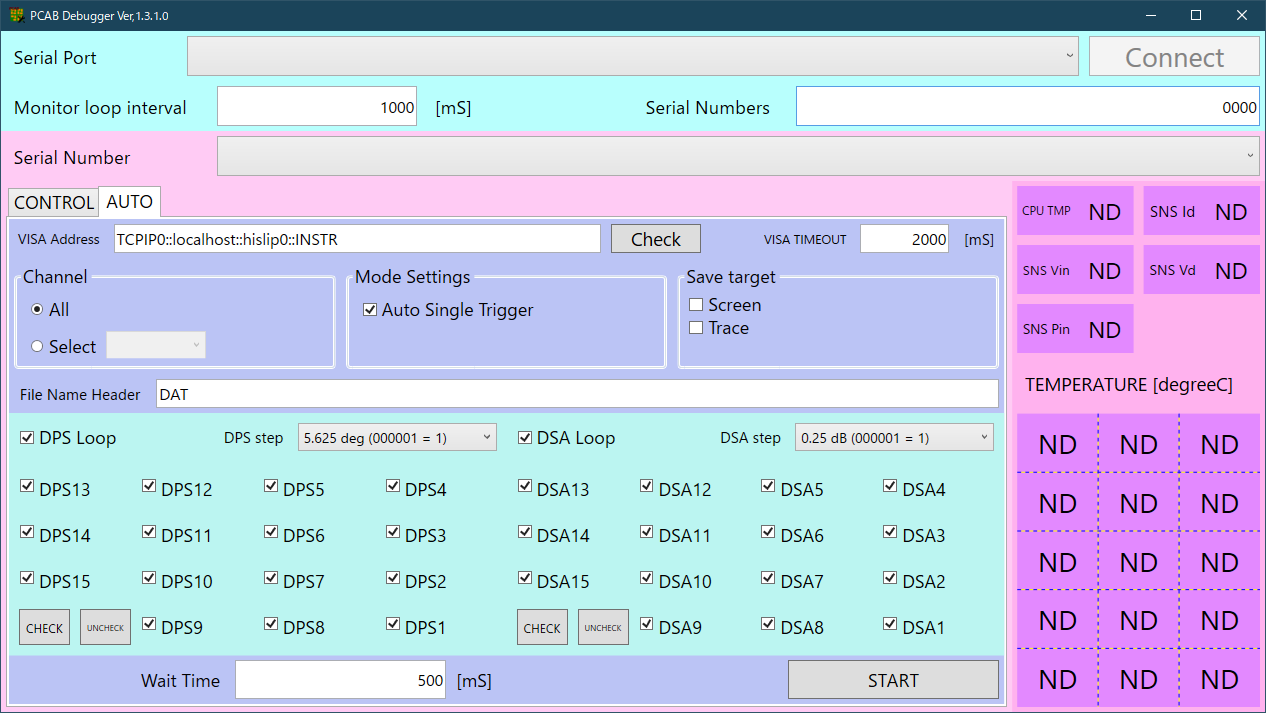
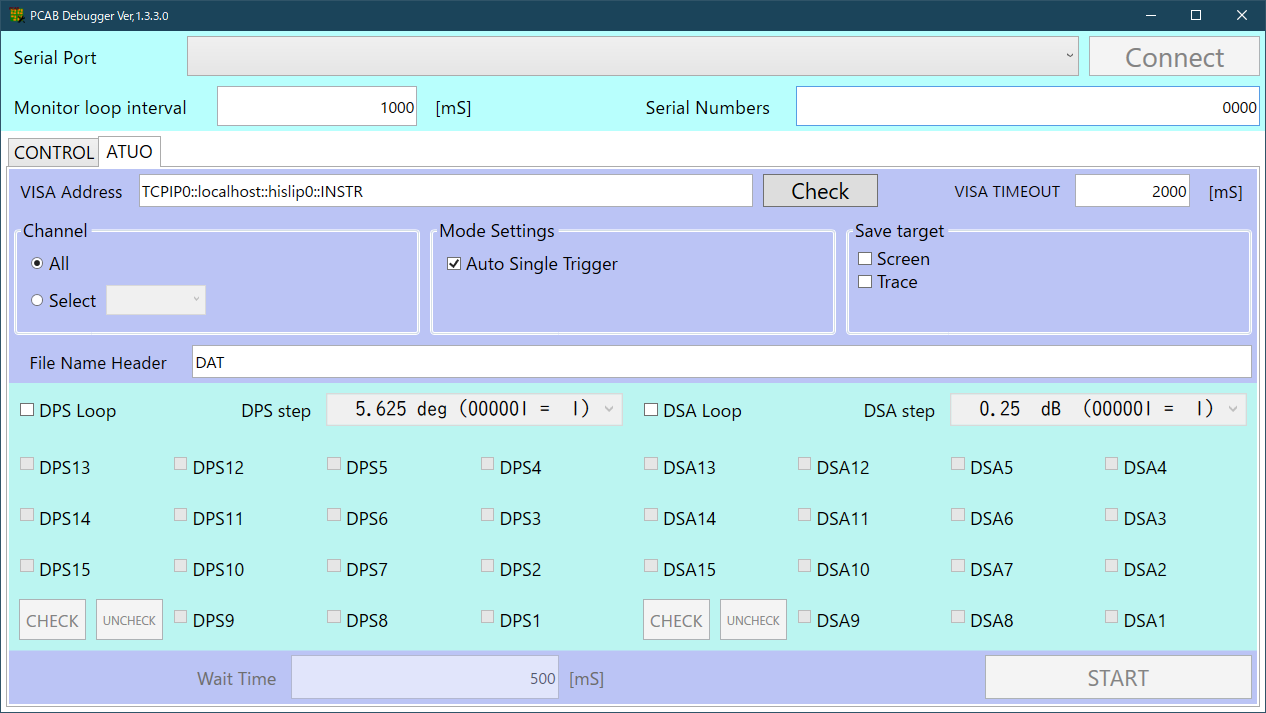
v1.3.3

diff --git a/PCAB_Debugger_GUI/winMain.xaml.cs b/PCAB_Debugger_GUI/winMain.xaml.cs
@@ -31,6 +31,7 @@ namespace PCAB_Debugger_GUI
         private void Window_Loaded(object sender, RoutedEventArgs e)
         {
             this.Title += " Ver," + System.Diagnostics.FileVersionInfo.GetVersionInfo(System.Reflection.Assembly.GetExecutingAssembly().Location).ProductVersion;
+            BOARD_GRID.IsEnabled = false;
 #if DEBUG
             //Settings.Default.Reset();
             this.Title += "_DEBUG MODE";

diff --git a/PCAB_Debugger_GUI/README.md b/PCAB_Debugger_GUI/README.md
@@ -66,3 +66,7 @@ ${\color{LightSkyBlue} 4. \space AUTO \space TAB \space}$ Automatic measurement 
 |4-13|DSAn				|Select loop target.|
 |4-14|Waite Time		|Waite time befor next step.|
 |4-15|START Button		|Automatic loop control execution button.|
+
+
+<br><img src="https://github.com/mw-eng/PCAB_Debugger/blob/master/PCAB_Debugger_GUI/assets/UI3.png?raw=true" width="600px"><br>
+<br>
